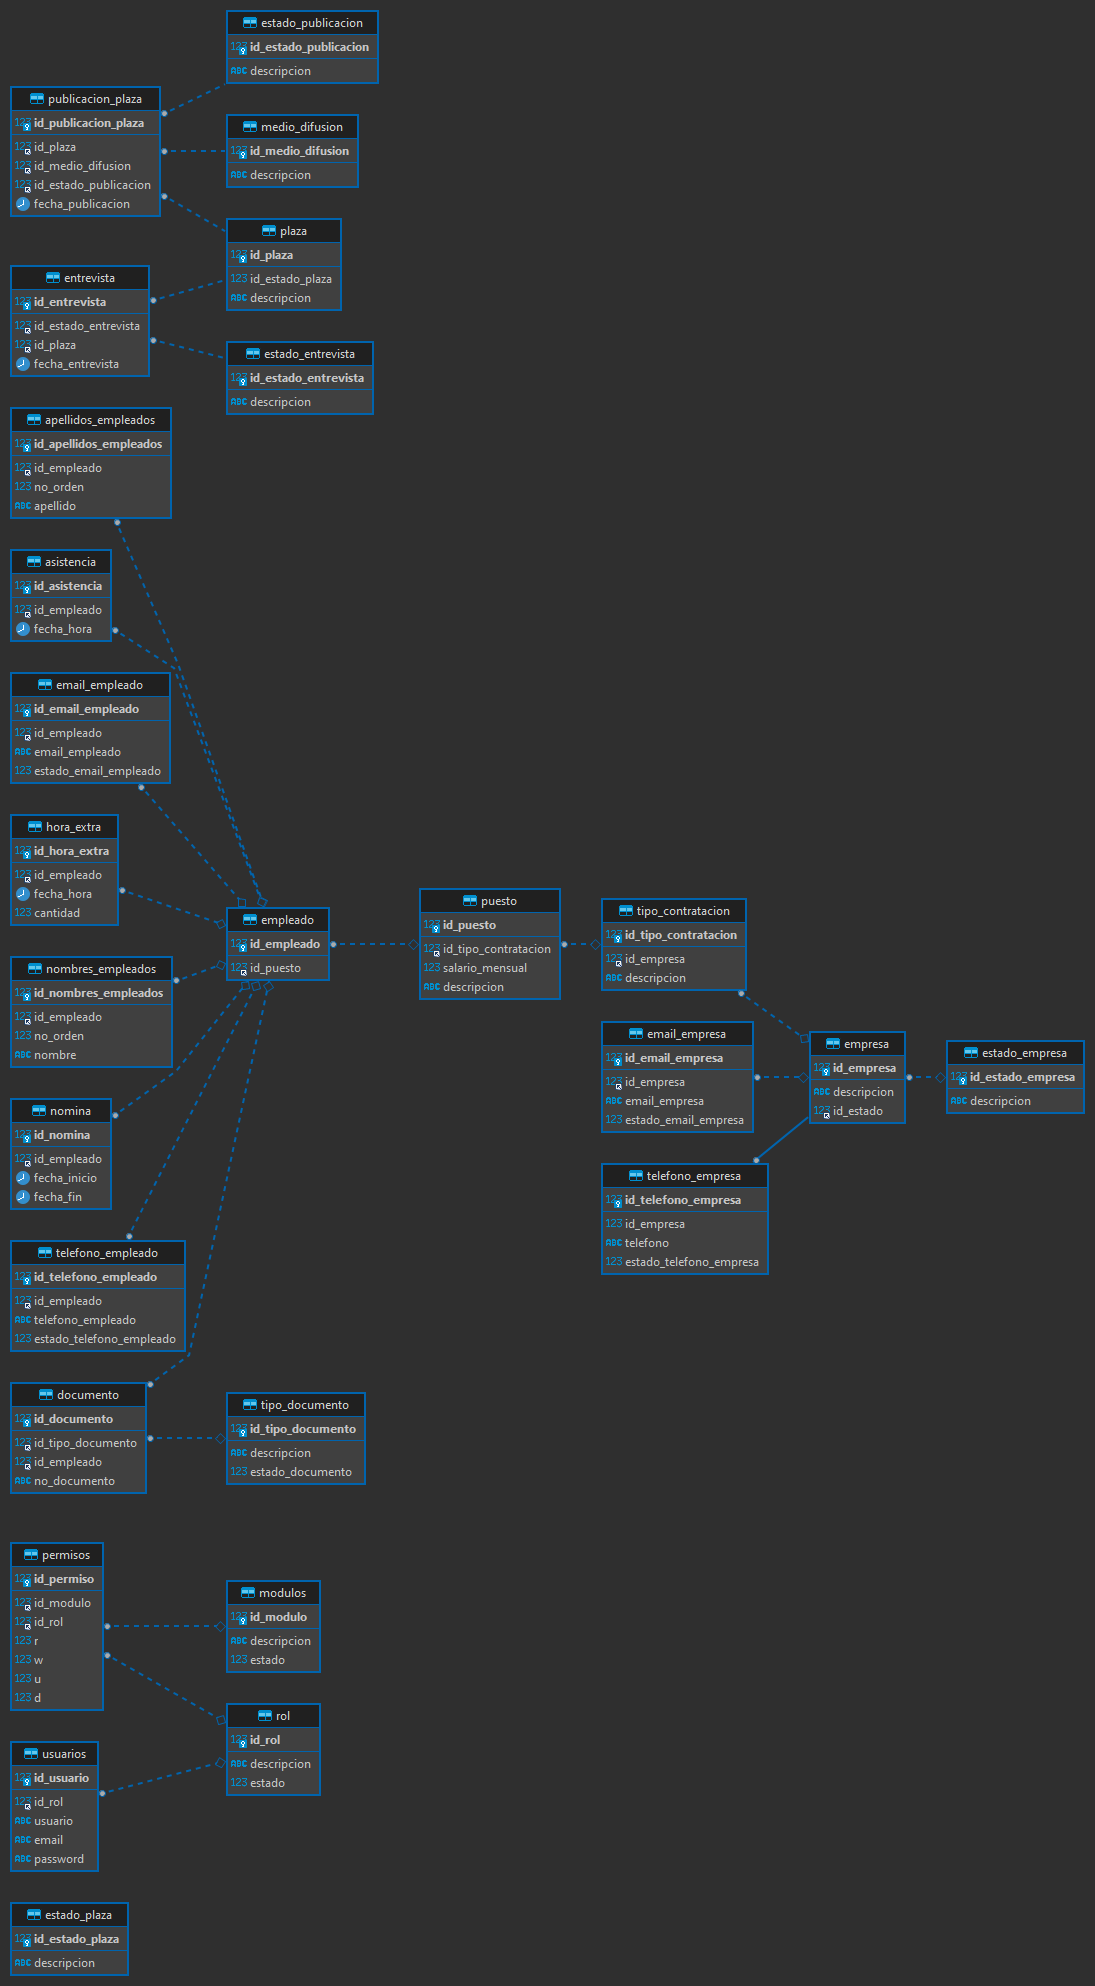
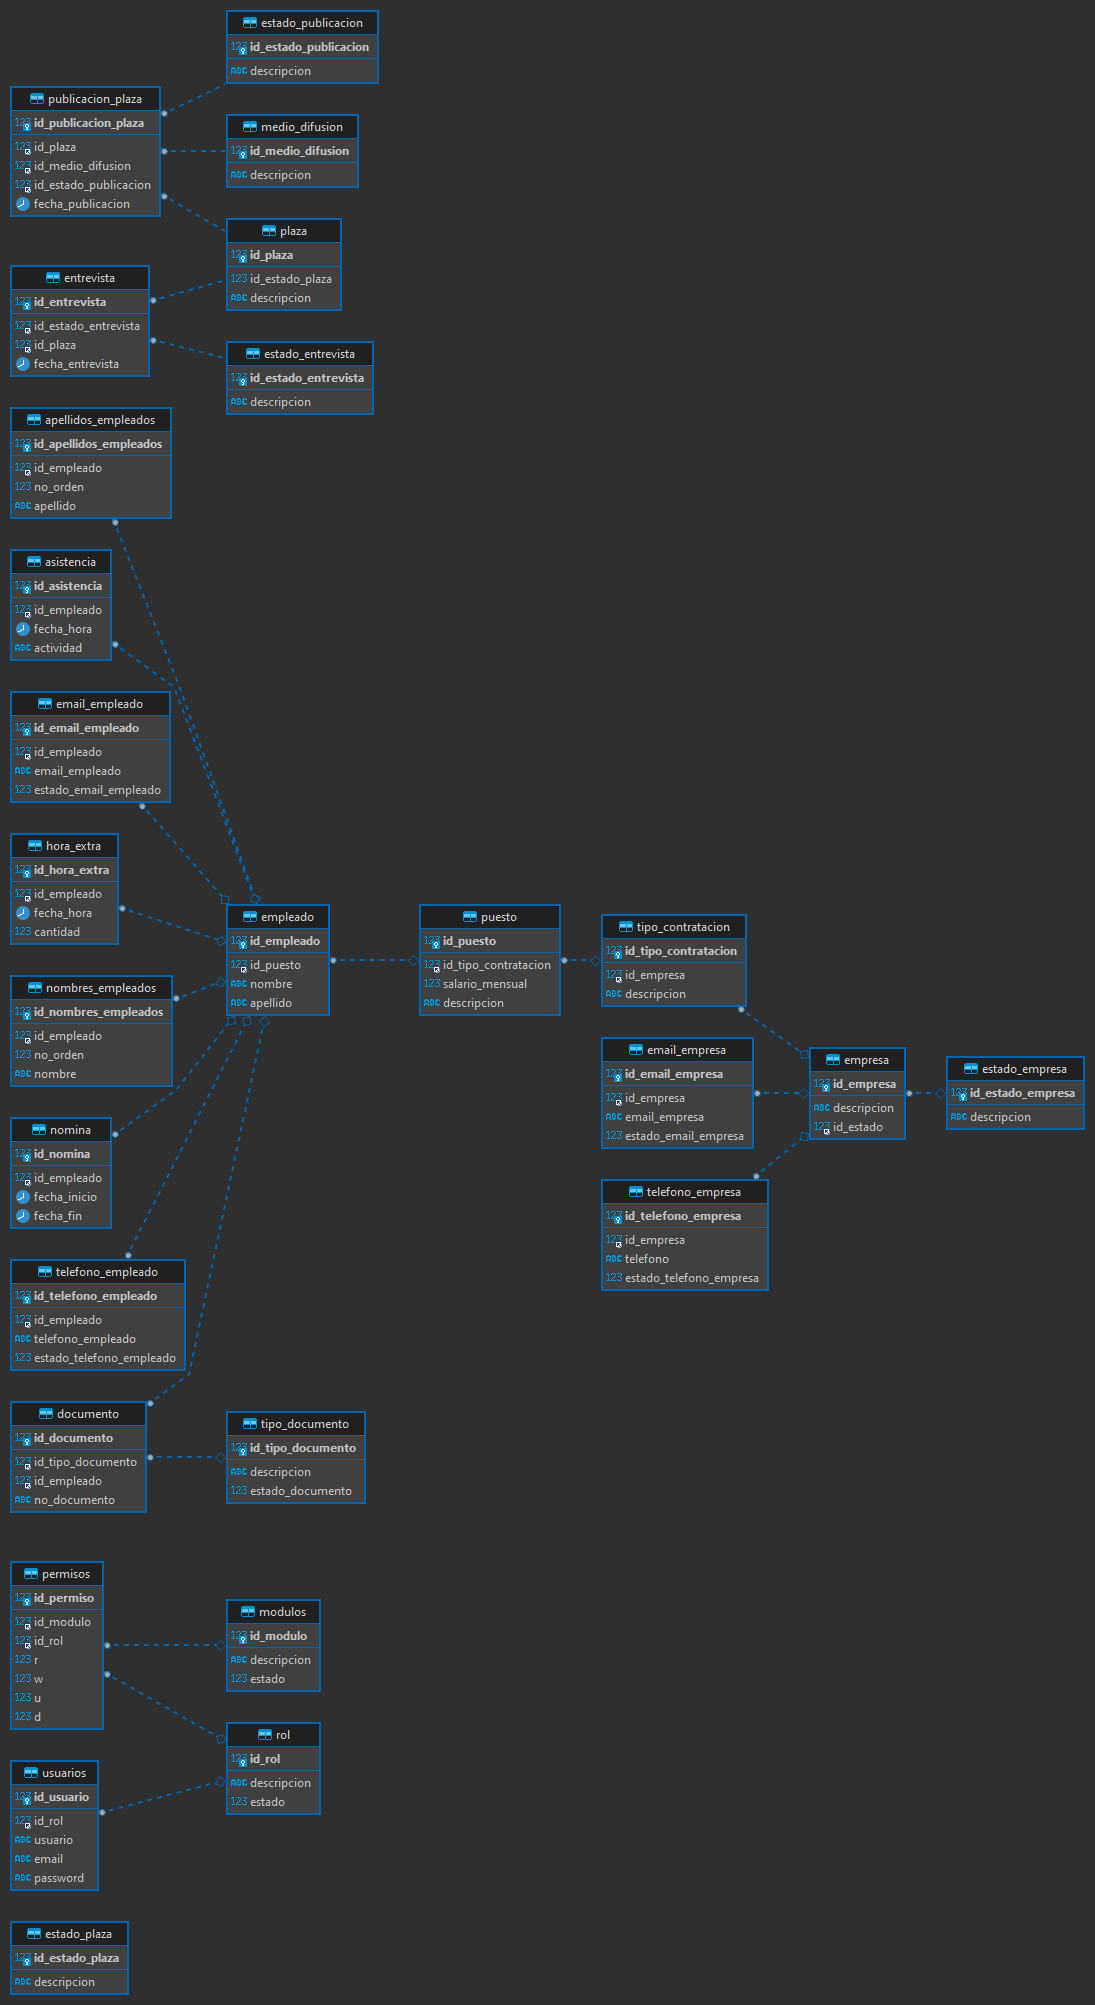
filtro mes en curso asistencias

diff --git a/src/services/asistencia.services.js b/src/services/asistencia.services.js
@@ -7,7 +7,7 @@ class asistenciaService {
             const create = await prisma.asistencia.create({
                 data: {
                     id_empleado: data.id_empleado,
-                    fecha_hora: data.fecha_hora
+                    actividad: data.actividad,
                 }
             })
             return create;
@@ -18,11 +18,39 @@ class asistenciaService {
 
     async find(){
         try {
+            const mesEnCurso = new Date().getMonth() + 1; // Mes actual
             const find = await prisma.asistencia.findMany({
-                select:{
+                where: {
+                    fecha_hora: {
+                      // Filtra por el mes en curso
+                      gte: new Date(new Date().getFullYear(), mesEnCurso - 1, 1), // Primer día del mes
+                      lt: new Date(new Date().getFullYear(), mesEnCurso, 1) // Primer día del próximo mes
+                    }
+                  },
+                  select:{
                     id_asistencia: true,
-                    id_empleado: true,
                     fecha_hora: true,
+                    actividad: true,
+                    empleado: {
+                        select: {
+                            nombre: true,
+                            apellido: true,
+                            puesto: {
+                                select: {
+                                    descripcion: true,
+                                    tipo_contratacion: {
+                                        select: {
+                                            empresa: {
+                                                select: {
+                                                    descripcion: true
+                                                }
+                                            }
+                                        }
+                                    }
+                                }
+                            }
+                        }
+                    }
                 }
             });
             return find;
@@ -36,8 +64,28 @@ class asistenciaService {
             const findOne = await prisma.asistencia.findUnique({
                 select:{
                     id_asistencia: true,
-                    id_empleado: true,
                     fecha_hora: true,
+                    actividad: true,
+                    empleado: {
+                        select: {
+                            nombre: true,
+                            apellido: true,
+                            puesto: {
+                                select: {
+                                    descripcion: true,
+                                    tipo_contratacion: {
+                                        select: {
+                                            empresa: {
+                                                select: {
+                                                    descripcion: true
+                                                }
+                                            }
+                                        }
+                                    }
+                                }
+                            }
+                        }
+                    }
                 },
                 where: {
                     id_asistencia: parseInt(id),
@@ -56,7 +104,8 @@ class asistenciaService {
             },
             data: {
                 id_empleado: changes.id_empleado,
-                fecha_hora: changes.fecha_hora
+                fecha_hora: changes.fecha_hora,
+                actividad: changes.actividad,
             }
         });
         return update;

diff --git a/src/schemas/asistenciaSchema.js b/src/schemas/asistenciaSchema.js
@@ -3,15 +3,16 @@ const Joi = require('joi');
 const id_asistencia = Joi.number();
 const id_empleado = Joi.number();
 const fecha_hora = Joi.date();
+const actividad = Joi.string();
 
 const createAsistenciaSchema = Joi.object({
     id_empleado: id_empleado.required(),
-    fecha_hora: fecha_hora.required()
+    actividad: actividad.required(),
 });
 
 const updateAsistenciaSchema = Joi.object({
     id_empleado: id_empleado,
-    fecha_hora: fecha_hora
+    actividad: actividad,
 });
 
 const getAsistenciaSchema = Joi.object({
